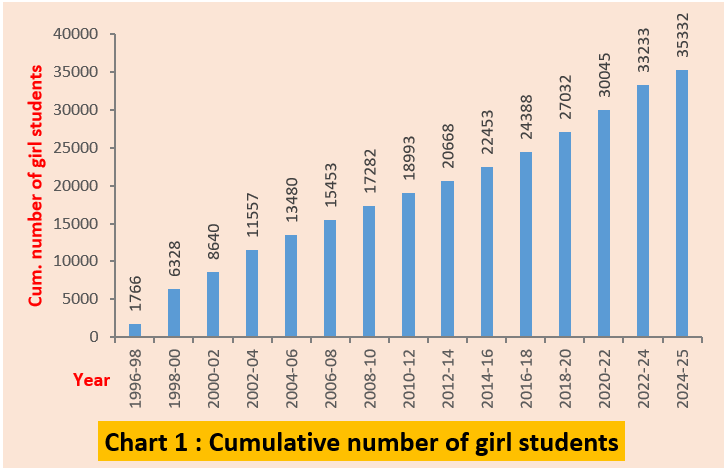
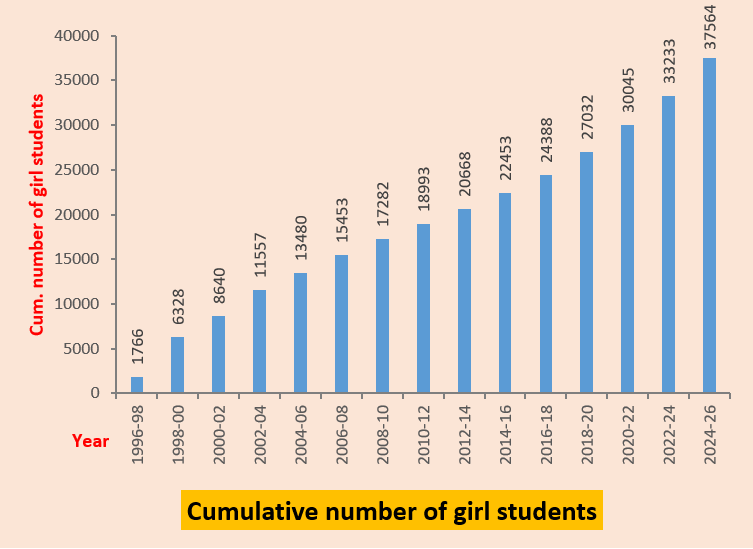
included testimonial and image gallery on homepage

diff --git a/index5.html b/index5.html
@@ -65,14 +65,14 @@ Know More About Us
 
 <div class="glass-card stat" onclick="openStat('img1')">
 <i class="fa-solid fa-user-graduate fa-3x text-primary mb-3"></i>
-<h2 class="counter" data-target="35332">0</h2>
+<h2 class="counter" data-target="37564">0</h2>
 <p>Girl students have been supported via scholarship</p>
 </div>
 
 <div class="glass-card stat" onclick="openStat('img2')">
 <!--<h2 class="counter" data-target="396">0</h2>-->
 <i class="fa-solid fa-indian-rupee-sign fa-3x text-primary mb-3"></i>
-<h2><span class="currency">₹</span><span class="counter" data-target="3.96">0</span> Cr</h2>
+<h2><span class="currency">₹</span><span class="counter" data-target="4.51">0</span> Cr</h2>
 <p>Worth of scholarships distributed so far</p>
 
 </div>
@@ -606,7 +606,7 @@ document.getElementById("statModal").style.display = "none";
       </a>
 
       <!-- Card 2 (NEW) -->
-      <a href="./gallery_personality.html" class="gallery-card">
+      <a href="./testimonial.html" class="gallery-card">
         <div class="gallery-img">
           <img src="/assets/images/sanskar_classes.jpg" alt="Personality Development Classes">
         </div>
@@ -629,6 +629,100 @@ document.getElementById("statModal").style.display = "none";
 
     </div>
 
+  </div>
+</section>
+<!-- -->
+
+<!------------ testimonials -------------->
+<section class="testimonial-section">
+  <div class="heading text-center">
+    <h2>Our Testimonials</h2>
+    <div class="divider"></div>
+    <h5 class="subtext">
+      From Guidance to Growth — Reflections That Resonate
+    </h5>
+  </div>
+
+  <div class="swiper testimonials-swiper">
+    <div class="swiper-wrapper">
+
+      <!-- Testimonial 1 -->
+      <div class="swiper-slide">
+        <div class="testimonial-card">
+          <p class="testimonial-text">
+            “For me, this trust is not just an institution, but a guiding light that builds both education and character.”
+          </p>
+          <div class="testimonial-author">
+            <h6>Raj Kumari Panwar</h6>
+            <span>Student</span>
+          </div>
+        </div>
+      </div>
+
+      <!-- Testimonial 2 -->
+      <div class="swiper-slide">
+        <div class="testimonial-card">
+          <p class="testimonial-text">
+            “The weekly personality development classes held every Sunday have played a vital role 
+            in shaping my outlook on life, helping me face challenges with confidence and composure.”
+          </p>
+          <div class="testimonial-author">
+            <h6>Krishna Rajpurohit</h6>
+            <span>Student</span>
+          </div>
+        </div>
+      </div>
+
+		<!-- Testimonial 3 -->
+      <div class="swiper-slide">
+        <div class="testimonial-card">
+          <p class="testimonial-text">
+            “This institution has supported me both financially and mentally, and I am deeply thankful to all 
+			<b>the volunteers who treat me like family and mentors, rather than outsiders.</b> 
+			Even my family thanks this trust for bringing such a positive change in my behavior and outlook on life.”
+          </p>
+          <div class="testimonial-author">
+            <h6>Bhavika Chanda</h6>
+            <span>Student</span>
+          </div>
+        </div>
+      </div>
+	  
+	  <!-- Testimonial 4 -->
+      <div class="swiper-slide">
+        <div class="testimonial-card">
+          <p class="testimonial-text">
+            “Thanks a lot for the amazing personality development classes! 
+		Your guidance has made a huge difference in my life. I'm grateful for your support and encouragement.”
+          </p>
+          <div class="testimonial-author">
+            <h6>Meenakshi Parihar</h6>
+            <span>Student</span>
+          </div>
+        </div>
+      </div>
+	  
+	  <!-- Testimonial 5 -->
+      <div class="swiper-slide">
+        <div class="testimonial-card">
+          <p class="testimonial-text">
+            “What I love about this trust is <b>its peaceful atmosphere and the way it embraces everyone equally, 
+		without any discrimination of caste”
+          </p>
+          <div class="testimonial-author">
+            <h6>Sangeeta Biswas</h6>
+            <span>Student</span>
+          </div>
+        </div>
+      </div>
+	  
+      <!-- Repeat same structure for others -->
+
+    </div>
+
+    <div class="swiper-pagination"></div>
+    <div class="swiper-button-prev"></div>
+    <div class="swiper-button-next"></div>
   </div>
 </section>
 <!-- -->

diff --git a/assets/css/homepage.css b/assets/css/homepage.css
@@ -1205,6 +1205,121 @@ font-size:1.8rem;
 /**/
 
 
+/*** Testimonials  ****/
+/* =========================
+   SECTION
+========================= */
+.testimonial-section {
+  padding: 110px 8%;
+  background: linear-gradient(135deg, #fdfaf6, #f7f1e8);
+  text-align: center;
+}
+
+/* =========================
+   SWIPER FIX
+========================= */
+.testimonials-swiper {
+  margin-top: 60px;
+}
+
+.testimonials-swiper .swiper-wrapper {
+  display: flex;
+  align-items: stretch;
+}
+
+.testimonials-swiper .swiper-slide {
+  display: flex;
+  height: auto;
+  padding: 10px;
+}
+
+/* =========================
+   CARD
+========================= */
+.testimonial-card {
+  background: rgba(255,255,255,0.6);
+  backdrop-filter: blur(14px);
+  border-radius: 18px;
+  padding: 30px;
+
+  border: 1px solid rgba(255,255,255,0.3);
+
+  display: flex;
+  flex-direction: column;
+  justify-content: space-between;
+
+  transition: all 0.35s ease;
+  height: 100%;
+}
+
+/* Hover */
+.testimonial-card:hover {
+  transform: translateY(-6px);
+  box-shadow: 0 20px 40px rgba(0,0,0,0.08);
+}
+
+/* =========================
+   TEXT
+========================= */
+.testimonial-text {
+  font-size: 0.98rem;
+  line-height: 1.7;
+  color: #4f4f4f;
+  font-style: italic;
+  margin-bottom: 20px;
+}
+
+/* =========================
+   AUTHOR
+========================= */
+.testimonial-author h6 {
+  font-size: 1rem;
+  font-weight: 600;
+  margin-bottom: 2px;
+  color: #2b2b2b;
+}
+
+.testimonial-author span {
+  font-size: 0.85rem;
+  color: #8a8a8a;
+}
+
+/* =========================
+   ACTIVE SLIDE FOCUS
+========================= */
+.swiper-slide {
+  opacity: 0.6;
+  transition: opacity 0.3s ease;
+}
+
+.swiper-slide-active,
+.swiper-slide-next,
+.swiper-slide-prev {
+  opacity: 1;
+}
+
+/* =========================
+   ARROWS
+========================= */
+.swiper-button-next,
+.swiper-button-prev {
+  color: #a6782e;
+  transform: scale(0.8);
+}
+
+/* =========================
+   PAGINATION
+========================= */
+.swiper-pagination-bullet {
+  background: #a6782e;
+  opacity: 0.4;
+}
+
+.swiper-pagination-bullet-active {
+  opacity: 1;
+}
+/**/
+
 /* responsive */
 
 @media(max-width:900px){

diff --git a/bhaiyaji.html b/bhaiyaji.html
@@ -213,7 +213,7 @@
 			<p>He completely surrendered and devoted himself to <b>the Divine Mother <i>Maa Tripurasundari</i> (the creator of universe) </b>
 			and solemnly worshiped her day and night with full dedication.The Divine Mother, moved by his innocence and sincerity, 
             blessed him with her divine vision and bestowed spiritual powers upon him. 
-            He used these gifts not for himself, but entirely for the welfare of humanity.</p>
+            He used it not for himself, but entirely for the welfare of humanity.</p>
         </div>
     </div>
      </div>         
@@ -324,7 +324,7 @@
         <div class="p-4 border-start border-4 border-warning bg-white rounded shadow-sm"
              style="border-color: #f6c67c;">
           <p>
-            After years of deep sadhna, <b>Shri Sharda and Basantiji were <span style="color:red">divinely inspired in 1996 to dedicate their lives to 
+            After years of deep sadhna, <b>Shri Sharda and Maa Basantiji were <span style="color:red">divinely inspired in 1996 to dedicate their lives to 
             social upliftment</span></b>. Recognizing the urgent need for girls’ education—especially in western Rajasthan, 
 			where poverty and neglect dimmed their future—they resolved to uplift them with both knowledge and values.
           </p>

diff --git a/basanti_maa.html b/basanti_maa.html
@@ -345,11 +345,11 @@
              style="border-color: #f6c67c;">
           <p>
             In order to make Bhaiyaji's divine knowledge accessible to the general masses, Maa Basanti ji first published the book 
-	  <b>"Manidweep Ka Adhyatama Purush - Shri Nandkishore Sharda"</b> in 2003. This divine book contains the memoirs of about 300 dignitaries of 
+	  <b>"Manidweep Ka Adhyatama Purush - Shri Nandkishore Sharda"</b> in 2003. This divine book contains the memoirs of about 350 dignitaries of 
 	  Jodhpur on the personality and works of Bhaiyaji, and portrays his divine philosophy of life, his contribution towards propagation of 
 	  education and his spiritual philosophy. </p>
 	  <p>Thereafter, the ambrosial knowledge imparted by the Divine Mother to Bhaiyaji, 
-	  was published in the form of book <b>"Wonderful World After Death" (Hindi and English language)</b> by Maa Basanti in 2003. </p>
+	  was published in the form of the book <b>"Wonderful World After Death" (Hindi and English language)</b> by Maa Basanti in 2003. </p>
 	  <p>Subsequently, she published the book <b>"Maa Tripurasundari Ke Laadle Chakradhari Yug Pravartak Adhyatma Yogi Shri Nandkishore Sharda"</b> 
 	  based on Bhaiya ji's personality, life, spiritual practices and work in 2015.
           </p>

diff --git a/header.html b/header.html
@@ -241,8 +241,8 @@
 
       <ul class="dropdown-menu">
         <li><a class="dropdown-item" href="bhaiyaji.html">Shri Nandkishore Sharda</a></li>
-        <li><a class="dropdown-item" href="basanti_maa.html">Maa Basanti Manihar</a></li>
-        <li><a class="dropdown-item" href="madhu_maa.html">Maa Madhu Advani</a></li>
+        <li><a class="dropdown-item" href="basanti_maa.html">Kumari Basanti Manihar</a></li>
+        <li><a class="dropdown-item" href="madhu_maa.html">Kumari Madhubala Advani</a></li>
       </ul>
     </li>
 
